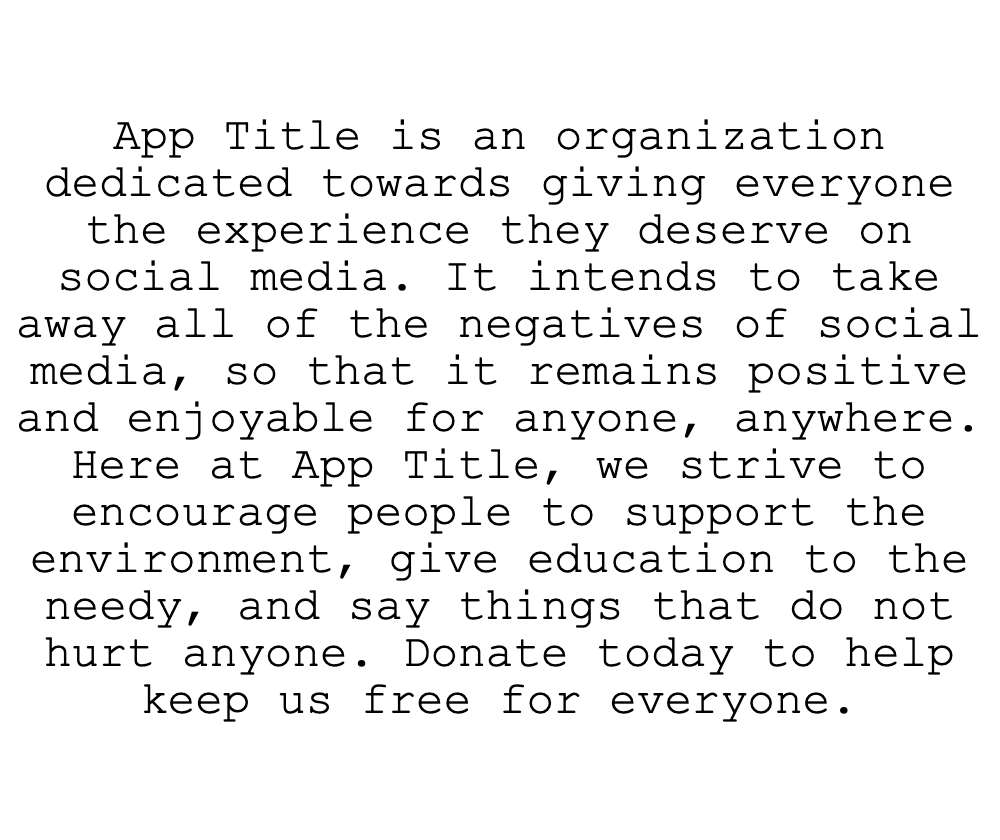
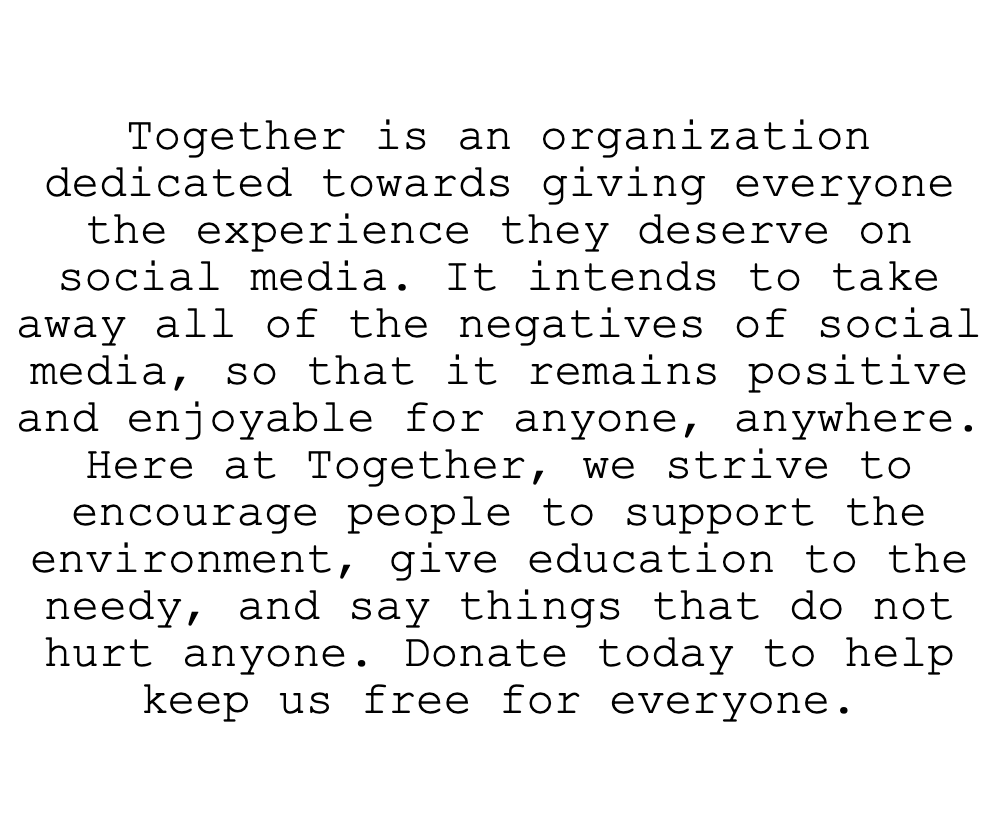
Add files via upload

diff --git a/js/Form.js b/js/Form.js
@@ -7,10 +7,11 @@ class Form {
     this.btn_logout = createButton("Log Out");
     this.btn_intro = createButton("Social Media Experiences");
     this.btn_rate = createButton("Rate This App");
-    this.btn_education = createButton("Seek/Provide Education");
+    this.btn_education = createButton("Provide/Seek Education");
     this.btn_socialmedia = createButton("Social Media");
     this.btn_environment = createButton("Spread Environmental Awareness");
     this.btn_otherapps = createButton("You May Also Like");
+    this.educationtitle = createElement('h2');
     this.btn_aboutus = createButton("About Us");
     this.btn_go = createButton("Login");
     this.btn_fakehome = createButton("");
@@ -38,17 +39,22 @@ class Form {
     this.input_environment = createElement("textarea");
     this.socialmediatitle = createElement('h2');
     this.environmentaldescription = createElement('h2');
+    this.feedbackdescription = createElement('h2');
+    this.experiencedescription = createElement('h2');
     this.input_chat = createInput("").attribute("placeholder", "Post Something");
     this.btn_send = createButton("Send");
     this.btn_home5 = createButton("Home");
-    this.btn_submitfeedback = createButton('Submit');
-    this.btn_submitexperiences = createButton('Submit');
+    this.btn_submitfeedback = createButton('Submit Feedback');
+    this.btn_submitexperiences = createButton('Submit Experiences');
     this.btn_submitenvironment = createButton('Submit');
-    this.input_feedback = createInput("").attribute("placeholder", "Share your experiences and feedback");
-    this.input_experiences = createInput("").attribute("placeholder", "Share your social media experiences")
+    this.input_feedback = createElement("textarea");
+    this.input_experiences = createElement("textarea");
     this.experiencetitle = createElement('h2');
     this.btn_home3 = createButton("Home");
     this.btn_home9 = createButton("Home");
+    this.btn_provideeducation = createButton("Provide Education");
+    this.btn_seekeducation = createButton("Seek Education");
+    this.provideeducationtitle //stopped
   }
   hide(){
     this.btn_intro.show();
@@ -71,11 +77,13 @@ class Form {
 this.input_feedback.hide();
 this.ratetitle.hide();
 this.btn_submitfeedback.hide();
+this.feedbackdescription.hide();
 this.btn_home4.hide();
 hide7 = true;
   }
   hidefunc3(){
     this.input_experiences.hide();
+    this.experiencedescription.hide();
     this.btn_home3.hide();
     this.experiencetitle.hide();
     this.feelingdescription.hide();
@@ -113,14 +121,16 @@ hide7 = true;
     this.title.show();
   }
   display(){
-   //form.enter();
+   form.enter();
    this.input_feedback.hide();
 this.ratetitle.hide();
 this.btn_submitfeedback.hide();
+this.feedbackdescription.hide();
 this.btn_home4.hide();
 hide7 = true;
 
 this.input_experiences.hide();
+this.experiencedescription.hide();
 this.btn_home3.hide();
 this.experiencetitle.hide();
 this.feelingdescription.hide();
@@ -141,6 +151,18 @@ hide9 = true;
     this.aboutustitle.position(222, 155);
     this.aboutustitle.style('font-size', '30px');
 
+    this.educationtitle.html("Provide/Seek Education");
+    this.educationtitle.position(137, 155);
+    this.educationtitle.style('font-size', '28px');
+
+    this.btn_provideeducation.position(155, 430);
+    this.btn_provideeducation.style('width', '270px');
+    this.btn_provideeducation.style('height', '90px');
+
+    this.btn_seekeducation.position(155, 530);
+    this.btn_seekeducation.style('width', '270px');
+    this.btn_seekeducation.style('height', '90px');
+
     this.environmenttitle.html("Spread Environmental Awareness");
     this.environmenttitle.position(132, 155);
     this.environmenttitle.style('font-size', '18px');
@@ -154,6 +176,16 @@ hide9 = true;
     this.environmentaldescription.position(136, 460);
     this.environmentaldescription.style('font-size', '15px');
     this.environmentaldescription.style('color', 'black');
+
+    this.feedbackdescription.html("Share your experiences and feedback");
+    this.feedbackdescription.position(162, 420);
+    this.feedbackdescription.style('font-size', '15px');
+    this.feedbackdescription.style('color', 'black');
+
+    this.experiencedescription.html("Share your social media experiences (if any)");
+    this.experiencedescription.position(142, 490);
+    this.experiencedescription.style('font-size', '15px');
+    this.experiencedescription.style('color', 'black');
 
     this.environmentalissuedescription1.html("Select an environmental issue");
     this.environmentalissuedescription1.position(165, 197);
@@ -175,17 +207,17 @@ hide9 = true;
     this.btn_send.style('font-size', '13px');
     this.btn_send.style('height', '40px')
 
-    this.input_feedback.position(160, 437);
+    this.input_feedback.position(160, 457);
     this.input_feedback.style('width', '245px');
-    this.input_feedback.style('height', '130px')
+    this.input_feedback.style('height', '110px')
 
     this.input_environment.position(160, 500);
     this.input_environment.style('width', '245px');
     this.input_environment.style('height', '100px')
 
-    this.input_experiences.position(160, 515);
+    this.input_experiences.position(160, 525);
     this.input_experiences.style('width', '245px');
-    this.input_experiences.style('height', '70px')
+    this.input_experiences.style('height', '60px')
 
     this.youmayliketitle.html("You May Also Like");
     this.youmayliketitle.position(145, 155);
@@ -259,7 +291,7 @@ hide9 = true;
     this.input_email.hide();
     this.input_password.hide();
 
-    this.title.html("App Title");
+    this.title.html("Together");
     this.title.position(195, 140);
     this.logintitle.html("Log In");
     this.logintitle.position(242, 145);
@@ -433,6 +465,12 @@ hide9 = true;
             hide5 = true;
                 });
 
+                this.btn_provideeducation.mousePressed(()=>{
+                  this.btn_provideeducation.hide();
+                  this.btn_seekeducation.hide();
+                  this.educationtitle.hide();
+                      });
+
                 this.btn_environment.mousePressed(()=>{
                   form.enter();
                 this.input_environment.show();
@@ -448,6 +486,7 @@ hide9 = false;
                 this.btn_intro.mousePressed(()=>{
                   form.enter();
                 this.input_experiences.show();
+                this.experiencedescription.show();
 this.btn_home3.show();
 this.experiencetitle.show();
 this.feelingdescription.show();
@@ -568,16 +607,7 @@ hide8 = false;
                     timer: 4000
                   }
                     )
-                } else if(selected === false){
-                  swal({
-                    confirmButtonColor: '#8CD4F5', title: `Unsuccessful Submission`,
-                    text: 'Failed submitting your experiences. Please say how you are feeling today.',
-                    type: "error",
-                    showConfirmButton: false,
-                    timer: 4000
-                  }
-                    )
-                } else if(selected===true&& this.input_experiences.value().length>=1 && this.input_experiences.value()!==""){
+                }else if(this.input_experiences.value().length>=1 && this.input_experiences.value()!==""){
                   swal({
                     confirmButtonColor: '#8CD4F5', title: `Successfull Submission`,
                     text: 'You have successfully submitted your experiences.',
@@ -614,16 +644,7 @@ hide8 = false;
                     timer: 4000
                   }
                     )
-                } else if(clicked === "nothing"){
-                  swal({
-                    confirmButtonColor: '#8CD4F5', title: `Unsuccessful Submission`,
-                    text: 'Failed submitting your review. Please rate this app.',
-                    type: "error",
-                    showConfirmButton: false,
-                    timer: 4000
-                  }
-                    )
-                } else if(clicked!=="nothing"&& this.input_feedback.value().length>=1 && this.input_feedback.value()!==""){
+                } else if(this.input_feedback.value().length>=1 && this.input_feedback.value()!==""){
                   swal({
                     confirmButtonColor: '#8CD4F5', title: `Successfull Submission`,
                     text: 'You have successfully submitted your review.',
@@ -659,6 +680,7 @@ hide8 = false;
                               this.input_feedback.show();
                               this.ratetitle.show();
                               this.btn_submitfeedback.show();
+                              this.feedbackdescription.show();
                               this.btn_home4.show();
                               hide7 = false;                                  });
 

diff --git a/sketch.js b/sketch.js
@@ -29,36 +29,35 @@ var tries = 1;
 var clicked = "nothing";
 var like, dislike, likeunclicked, dislikeunclicked, likeclicked, dislikeclicked;
 var aboutmetext, aboutmetextimg;
-let brightness, volume, language, style, mode, earthhero, covid19bot, humanly, weatherapp, qbp, qpa, mood1, environmentalissues;
+let brightness, volume, language, style, mode, earthhero, covid19bot, humanly, weatherapp, qbp, qpa, mood1, environmentalissues, capture;
 var mood, moodimg;
 
-//START HERE
-//textarea instead of text input
-//center titles of screens
-//END HERE
+/*
+MUST DO:
+center text of screens
+ADD SOUNDS & ADDS TO FINAL APP
+slow down ads (600%)
+title position & font size = same
+ONE COLOR SCHEME FOR APP
+make all titles and home buttons the same font size and size and position
+use icons for buttons like home buttons
+console.log when buttons are clicked
+ALIGN ELEMENTS NICELY & MAKE ALL BUTTONS SAME WIDTH & HEIGHT
+MAKE BUTTON FONT SIZES BIGGER
+DECIDE IF I WANT LOGIN, SETTINGS, & ABOUT US BUTTONS ON EVERY PAGE (IF SO, DECIDE HOW I WILL HAVE BUTTONS THAT TAKE USER HOME AN BACK ON THOSE SCREENS)
+*/
 
-//ADD SOUNDS & ADDS TO FINAL APP
-//display time
-//title position & font size = same
-//same border radius for all elements
-//ONE COLOR SCHEME FOR APP
-//when press home icon you hide everything and take it to home screen
-//shorten button text
-//make all titles and home buttons the same font size and size and position
-//covid19 bot
-//use icons for buttons like home buttons
+/*
+OPTIONAL:
+display time
+see if i want to have a camera
+same border radius for all elements
+when press home icon you hide everything and take it to home screen
+update covid-19 bot small talk
+swal animations
 //when you are on one screen, you shouldn't be receiving swal notifications from another one (ex. you cannot be recieving a report message when you are on environmental screen)
-//console.log when buttons are clicked
-//ALIGN ELEMENTS NICELY & MAKE ALL BUTTONS SAME WIDTH & HEIGHT
-//MAKE BUTTON FONT SIZES BIGGER
-//DECIDE IF I WANT LOGIN, SETTINGS, & ABOUT US BUTTONS ON EVERY PAGE (IF SO, DECIDE HOW I WILL HAVE BUTTONS THAT TAKE USER HOME AN BACK ON THOSE SCREENS)
-//ON 'MORE LIKE THIS' PAGE MAKE LINKS GO TO MY APPS (CREATE LINKS BY USING https://p5js.org/reference/#/p5/createA)
-//CREATE VIDEOS, AUDIOS , sliders, dropdowns, AND CAMERA, radios, checkbox, file input, button, and other components USING ATTACHED LINK (https://p5js.org/reference/)
-//BRIGHTNESS, VOLUME, DARK MODE, LANGUAGE SELECTION
-//USE NAMES THAT ARE IN THE LOGIN INPUT THAT THE USER FILLED OUT
-//BEFORE LOGGING IN AND AFTER LOGGING OUT THE USER'S NAME, PASSWORD, EMAIL, AND LAST NAME ARE NOTHING/ANONYMOUS
-//NAMES CANNOT BE REPEATED
-//YOU CANNOT PERFORM ANY ACTIONS UNTIL ADD IS CLOSED (PLAY THE WINDOWS ERROR NOISE WHEN A PERSON TRIES TO PERFORM AN ACTION WITH AN AD GOING ON)
+NAMES CANNOT BE REPEATED
+*/
 
 function preload(){
   iphoneImg = loadImage("images/iphone.png");
@@ -264,15 +263,20 @@ function setup(){
   mood1 = createRadio();
   mood1.option(' ');
   mood1.option('  ');
-  mood1.position(80, 475);
+  mood1.position(80, 470);
   mood1.style('width', '500px');
   mood1.style('height', '0px');
 
+  /*capture = createCapture(VIDEO);
+  capture.hide();*/
 }
 
 
 
 function draw(){
+  /*image(capture, 0, 0, width, width * capture.height / capture.width);
+  filter(INVERT);*/
+
   if(hide8 === true){
     mood1.hide();
     mood.visible = false;
